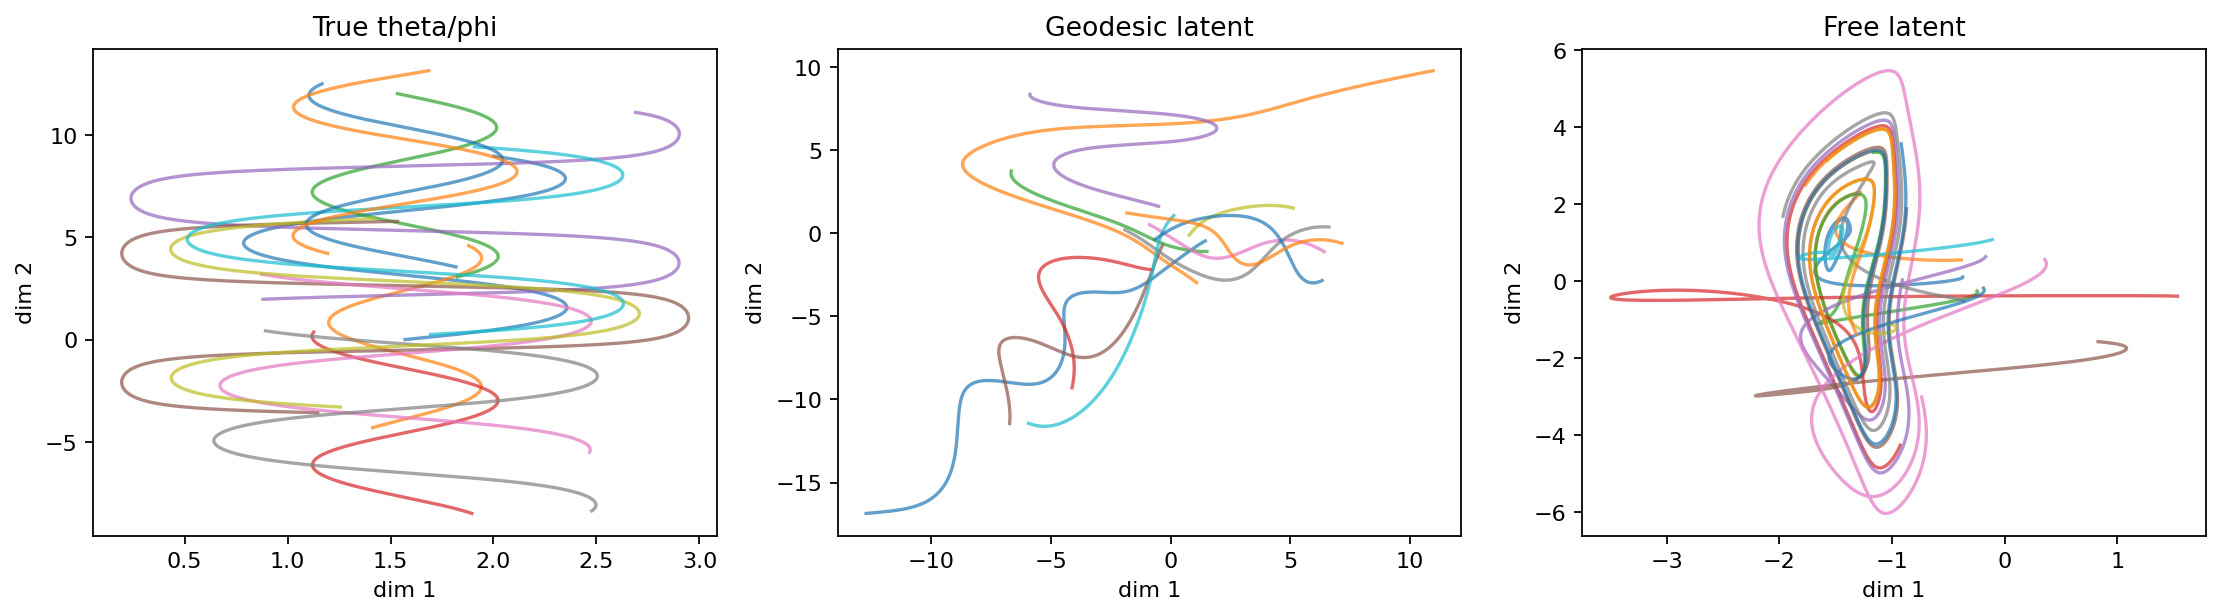
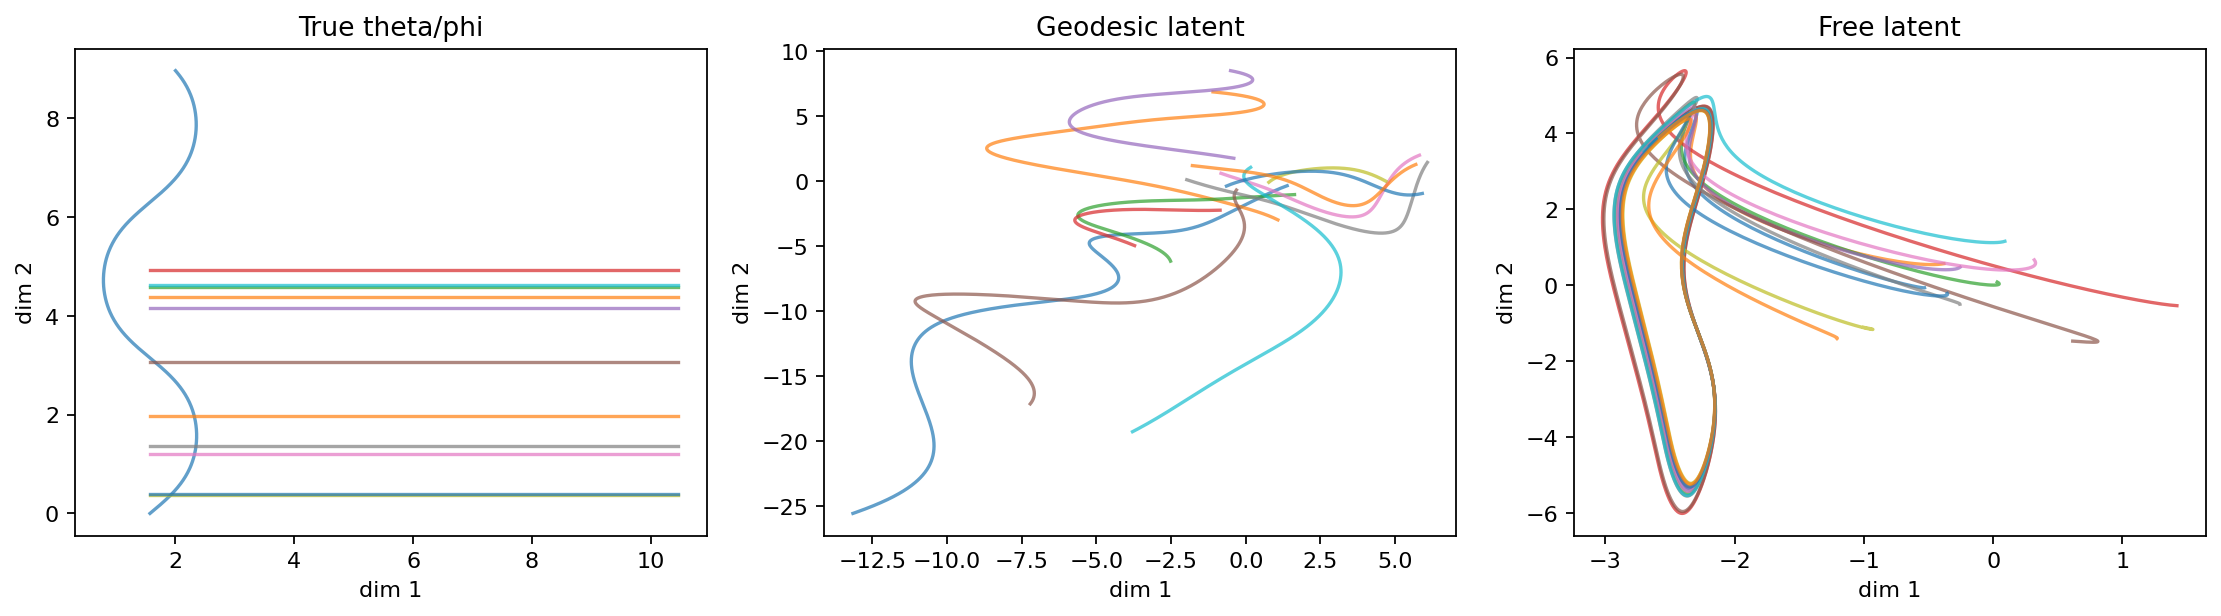
adding notes on a benchmark for hemisphere

diff --git a/sandbox/Geodesic_dynamics/fit_sphere_trials.py b/sandbox/Geodesic_dynamics/fit_sphere_trials.py
@@ -36,8 +36,6 @@ def spherical_geodesic(t, y):
 
     return [dtheta, dphi, ddtheta, ddphi]
 
-ORIGINAL_Y0 = [np.pi / 2, 0.0, 0.5, 0.5]
-
 
 def random_initial_condition(speed=2**-0.5):
     """Different starting point and tangent direction for each simulated trial."""
@@ -52,10 +50,6 @@ def random_initial_condition(speed=2**-0.5):
 
 
 def initial_condition_for_trial(trial_idx, speed):
-    """Using Dr. Schottdorf's original y0 for trial 0"""
-    use_original_first = os.environ.get("SPHERE_ORIGINAL_FIRST_TRIAL", "1").lower() in {"1", "true", "yes"}
-    if trial_idx == 0 and use_original_first:
-        return list(ORIGINAL_Y0)
     return random_initial_condition(speed=speed)
 
 
@@ -138,13 +132,12 @@ def plot_generated_activity(activity, theta_t, phi_t, theta_centers, phi_centers
     plt.close(fig)
 
 
-# Parameters are intentionally named like the original script where possible.
-seed = int(os.environ.get("SPHERE_SEED", "42"))
+seed = 42 # I'm just manually setting this here 
 random.seed(seed)
 np.random.seed(seed)
 torch.manual_seed(seed)
 
-device_name = os.environ.get("GEODESIC_DEVICE")
+device_name = os.environ.get("DEVICE")
 if device_name:
     device = torch.device(device_name)
 elif torch.cuda.is_available():
@@ -157,7 +150,7 @@ print(f"Using device: {device}")
 # multi-trial and 3D tests possible without changing the original constants.
 num_trials = int(os.environ.get("SPHERE_N_TRIALS", "1"))
 N_neurons = int(os.environ.get("SPHERE_N_NEURONS", "300"))
-kappa = float(os.environ.get("SPHERE_KAPPA", "1.5"))  # Tuning Width
+kappa = 1.5  # Tuning Width
 speed = float(os.environ.get("SPHERE_SPEED", str(2**-0.5)))
 t_span = (0, float(os.environ.get("SPHERE_T_MAX", str(4 * np.pi))))  # Integrate long enough to wrap around the sphere
 t_eval = np.linspace(t_span[0], t_span[1], int(os.environ.get("SPHERE_N_TIME", "600")))
@@ -165,7 +158,7 @@ out_dir = Path(os.environ.get("SPHERE_OUT_DIR", "runs/geodesic_sphere_trials")).
 out_dir.mkdir(parents=True, exist_ok=True)
 model_solver = os.environ.get("SPHERE_MODEL_SOLVER", "euler").strip().lower()
 if model_solver not in {"rk4", "euler"}:
-    raise ValueError(f"Unknown SPHERE_MODEL_SOLVER={model_solver!r}; use 'rk4' or 'euler'.")
+    raise ValueError(f"Unknown SPHERE_MODEL_SOLVER={model_solver!r}; use 'rk4' or 'euler' please!")
 
 # Tile the sphere with "place field"
 indices = np.arange(0, N_neurons, dtype=float) + 0.5

diff --git a/README.md b/README.md
@@ -1,6 +1,112 @@
 # Neural VAE
 * Written by: Kathleen Higgins
 * Built for: Schottdorf Lab
+
+## October 1st, 11:33pm:
+**RESULTS BASELINE FOR REGULAR 2D RUN, INCLUDING HELDOUT SET, WITH RESTRICTIONS ON COORDINATES BEING ON THE HEMISPHERE**
+(base) kathleenhiggins@Kathleens-Laptop-3 Neural_VAE_ODE % MPLBACKEND=Agg \
+GEODESIC_DEVICE=cpu \
+SPHERE_OUT_DIR=runs/geodesic_sphere_test_30x600_e300_heldout_2d \
+SPHERE_LATENT_DIM=2 \
+SPHERE_N_TRIALS=30 \
+SPHERE_N_TIME=600 \
+SPHERE_N_NEURONS=300 \
+SPHERE_T_MAX=12.566370614359172 \
+SPHERE_SPEED=0.70710678 \
+SPHERE_KAPPA=1.5 \
+SPHERE_EPOCHS=300 \
+SPHERE_HELDOUT_FIT_EPOCHS=300 \
+SPHERE_LR=0.001 \
+SPHERE_HELDOUT_FIT_LR=0.001 \
+python -u sandbox/Geodesic_dynamics/fit_sphere_trials.py
+Using device: cpu
+Simulated 30 sphere trials: time=600, neurons=300
+Model solver: euler
+Geodesic Model Parameters: 21063
+Free Dynamics Model Parameters: 53734
+
+Epoch 000 | NLL Sum: 9905015.00
+Epoch 010 | NLL Sum: 5962896.00
+Epoch 020 | NLL Sum: 4724001.00
+Epoch 030 | NLL Sum: 4307910.00
+Epoch 040 | NLL Sum: 4162062.00
+Epoch 050 | NLL Sum: 4073986.00
+Epoch 060 | NLL Sum: 4014653.00
+Epoch 070 | NLL Sum: 3972809.00
+Epoch 080 | NLL Sum: 3940382.75
+Epoch 090 | NLL Sum: 3913806.50
+Epoch 100 | NLL Sum: 3890470.50
+Epoch 110 | NLL Sum: 3868881.50
+Epoch 120 | NLL Sum: 3854599.75
+Epoch 130 | NLL Sum: 3879459.75
+Epoch 140 | NLL Sum: 3852389.00
+Epoch 150 | NLL Sum: 3843515.00
+Epoch 160 | NLL Sum: 3831524.00
+Epoch 170 | NLL Sum: 3826042.50
+Epoch 180 | NLL Sum: 3821877.50
+Epoch 190 | NLL Sum: 3844022.50
+Epoch 200 | NLL Sum: 3811350.75
+Epoch 210 | NLL Sum: 3824825.75
+Epoch 220 | NLL Sum: 3815417.50
+Epoch 230 | NLL Sum: 3802314.50
+Epoch 240 | NLL Sum: 3787661.00
+Epoch 250 | NLL Sum: 3774933.25
+Epoch 260 | NLL Sum: 3763475.00
+Epoch 270 | NLL Sum: 3753273.25
+Epoch 280 | NLL Sum: 3743416.50
+Epoch 290 | NLL Sum: 3733988.50
+--------------------
+Epoch 000 | NLL Sum: 6381789.00
+Epoch 010 | NLL Sum: 4872976.00
+Epoch 020 | NLL Sum: 4370117.50
+Epoch 030 | NLL Sum: 4090397.50
+Epoch 040 | NLL Sum: 3964697.25
+Epoch 050 | NLL Sum: 3916066.50
+Epoch 060 | NLL Sum: 3873158.00
+Epoch 070 | NLL Sum: 3714359.50
+Epoch 080 | NLL Sum: 3474774.75
+Epoch 090 | NLL Sum: 3357714.50
+Epoch 100 | NLL Sum: 3262694.50
+Epoch 110 | NLL Sum: 3243991.25
+Epoch 120 | NLL Sum: 3244887.00
+Epoch 130 | NLL Sum: 3201785.50
+Epoch 140 | NLL Sum: 3191748.00
+Epoch 150 | NLL Sum: 3198459.50
+Epoch 160 | NLL Sum: 3156867.50
+Epoch 170 | NLL Sum: 3150969.75
+Epoch 180 | NLL Sum: 3170053.50
+Epoch 190 | NLL Sum: 3124962.50
+Epoch 200 | NLL Sum: 3120826.00
+Epoch 210 | NLL Sum: 3151230.25
+Epoch 220 | NLL Sum: 3100698.25
+Epoch 230 | NLL Sum: 3096706.00
+Epoch 240 | NLL Sum: 3142237.75
+Epoch 250 | NLL Sum: 3080639.00
+Epoch 260 | NLL Sum: 3076323.00
+Epoch 270 | NLL Sum: 3131553.50
+Epoch 280 | NLL Sum: 3063125.00
+Epoch 290 | NLL Sum: 3061632.50
+
+=============================================
+            MODEL COMPARISON RESULTS 
+=============================================
+Metric          | Geodesic Model  | Free Model     
+------------------------------------------------
+Parameters (k)  | 21063           | 53734          
+Train NLL       | 3730259.00      | 3085285.75     
+Heldout NLL     | 943729.88       | 781531.88      
+Train R2        | 0.1234          | 0.4451         
+Train r         | 0.3554          | 0.6682         
+Heldout R2      | 0.1026          | 0.4342         
+Heldout r       | 0.3264          | 0.6604         
+AIC             | 7502644.00      | 6278039.50     
+BIC             | 7782334.65      | 6991560.71     
+=============================================
+
+Preferred Model by AIC: Free Dynamics
+Preferred Model by BIC: Free Dynamics
+
+
 ## October 1st, 11:07pm:
 **RESULTS BASELINE FOR REGULAR 2D RUN, INCLUDING HELDOUT SET, WITH NO RESTRICTIONS ON COORDINATES BEING ON THE HEMISPHERE**
 
